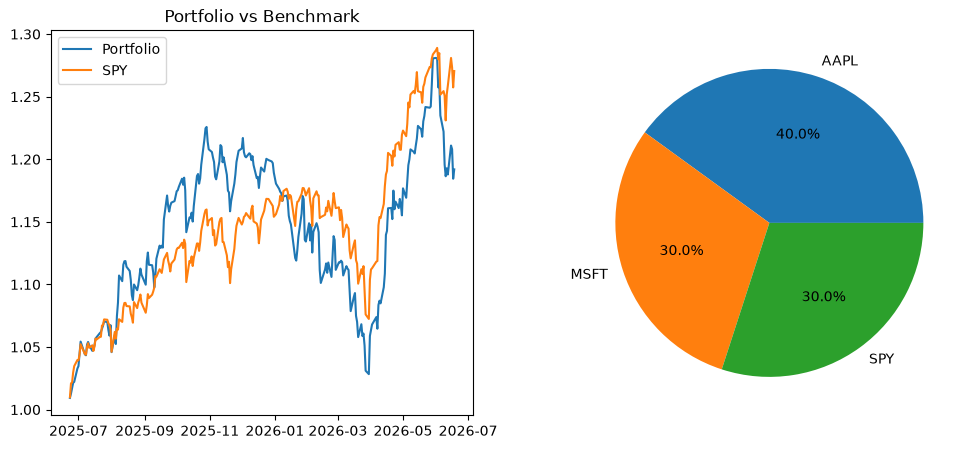
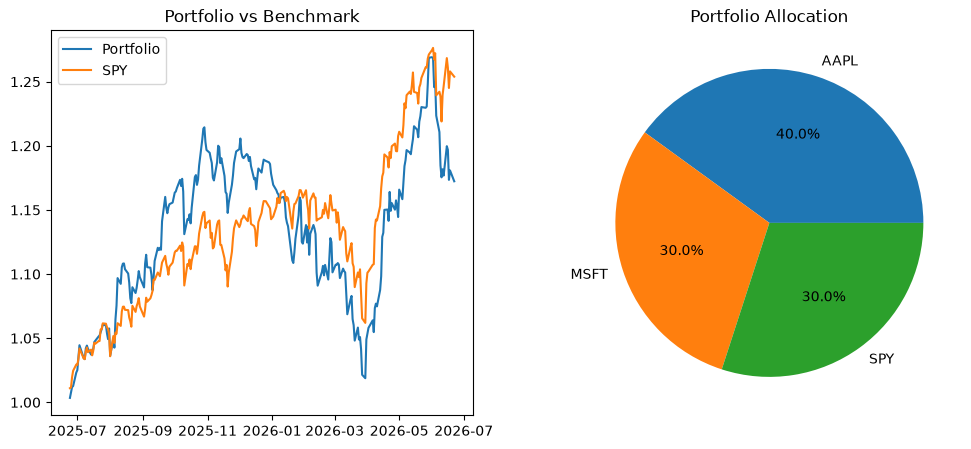
Add tracking error and information ratio metrics

diff --git a/src/main.py b/src/main.py
@@ -8,7 +8,11 @@ from metrics import (
     max_drawdown,
     volatility,
     cagr,
-    correlation_matrix
+    correlation_matrix,
+    beta,
+    alpha,
+    tracking_error,
+    information_ratio
 )
 
 from portfolio import (
@@ -16,19 +20,31 @@ from portfolio import (
     portfolio_growth
 )
 
+# -----------------------------------
+# Portfolio Setup
+# -----------------------------------
+
 tickers = ["AAPL", "MSFT", "SPY"]
 
 benchmark = "SPY"
 
 weights = [0.4, 0.3, 0.3]
 
+# -----------------------------------
+# Download Data
+# -----------------------------------
 
 prices = download_prices(tickers)
+
 benchmark_prices = download_prices(
     benchmark
 )
 
 benchmark_prices = benchmark_prices.squeeze()
+
+# -----------------------------------
+# Returns
+# -----------------------------------
 
 returns = daily_returns(prices)
 
@@ -41,9 +57,9 @@ portfolio_ret = portfolio_returns(
     weights
 )
 
-portfolio_sr = sharpe_ratio(
-    portfolio_ret
-)
+# -----------------------------------
+# Growth Curves
+# -----------------------------------
 
 growth = portfolio_growth(
     portfolio_ret
@@ -53,19 +69,25 @@ benchmark_growth = portfolio_growth(
     benchmark_returns
 )
 
-mdd = max_drawdown(
-    growth
-)
+# -----------------------------------
+# Core Metrics
+# -----------------------------------
 
+portfolio_sr = sharpe_ratio(
+    portfolio_ret
+)
 
 portfolio_vol = volatility(
     portfolio_ret
 )
 
-portfolio_cagr = cagr(
+mdd = max_drawdown(
     growth
 )
 
+portfolio_cagr = cagr(
+    growth
+)
 
 benchmark_cagr = cagr(
     benchmark_growth
@@ -75,8 +97,39 @@ corr = correlation_matrix(
     returns
 )
 
+# -----------------------------------
+# Benchmark Analytics
+# -----------------------------------
+
+portfolio_beta = beta(
+    portfolio_ret,
+    benchmark_returns
+)
+
+portfolio_alpha = alpha(
+    portfolio_cagr,
+    benchmark_cagr,
+    portfolio_beta
+)
+
+portfolio_tracking_error = tracking_error(
+    portfolio_ret,
+    benchmark_returns
+)
+
+portfolio_information_ratio = (
+    information_ratio(
+        portfolio_ret,
+        benchmark_returns
+    )
+)
+
+# -----------------------------------
+# Console Output
+# -----------------------------------
+
 print("Portfolio Sharpe Ratio:")
-print(portfolio_sr)
+print(f"{portfolio_sr:.2f}")
 
 print("\nAnnualized Volatility:")
 print(f"{portfolio_vol:.2%}")
@@ -87,20 +140,31 @@ print(f"{mdd:.2%}")
 print("\nPortfolio CAGR:")
 print(f"{portfolio_cagr:.2%}")
 
+print("\nBenchmark CAGR:")
+print(f"{benchmark_cagr:.2%}")
+
+print("\nPortfolio Beta:")
+print(f"{portfolio_beta:.2f}")
+
+print("\nPortfolio Alpha:")
+print(f"{portfolio_alpha:.2%}")
+
+print("\nTracking Error:")
+print(f"{portfolio_tracking_error:.2%}")
+
+print("\nInformation Ratio:")
+print(f"{portfolio_information_ratio:.2f}")
+
 print("\nCorrelation Matrix:")
 print(corr)
 
-print("\nBenchmark CAGR:")
-print(f"{benchmark_cagr:.2%}")
+# -----------------------------------
+# Correlation Heatmap
+# -----------------------------------
 
 plt.figure(figsize=(6, 5))
 
 plt.imshow(corr)
-
-plt.savefig(
-    "docs/images/correlation-heatmap.png",
-    bbox_inches="tight"
-)
 
 plt.colorbar()
 
@@ -116,7 +180,16 @@ plt.yticks(
 
 plt.title("Correlation Matrix")
 
+plt.savefig(
+    "docs/images/correlation-heatmap.png",
+    bbox_inches="tight"
+)
+
 plt.show()
+
+# -----------------------------------
+# Portfolio vs Benchmark
+# -----------------------------------
 
 plt.figure(figsize=(12, 5))
 
@@ -135,6 +208,7 @@ plt.plot(
 )
 
 plt.title("Portfolio vs Benchmark")
+
 plt.legend()
 
 plt.savefig(
@@ -142,19 +216,25 @@ plt.savefig(
     bbox_inches="tight"
 )
 
+# -----------------------------------
+# Asset Allocation Pie Chart
+# -----------------------------------
+
 plt.subplot(1, 2, 2)
+
 plt.pie(
     weights,
     labels=tickers,
     autopct="%1.1f%%"
 )
 
+plt.title("Portfolio Allocation")
+
 plt.savefig(
     "docs/images/allocation-chart.png",
     bbox_inches="tight"
 )
 
-plt.title("Portfolio Allocation")
-
 plt.tight_layout()
+
 plt.show()

diff --git a/tests/test_metrics.py b/tests/test_metrics.py
@@ -3,13 +3,16 @@ import pandas as pd
 
 from src.metrics import (
     daily_returns,
+    sharpe_ratio,
+    volatility,
+    max_drawdown,
+    cagr,
+    correlation_matrix,
     beta,
     alpha,
-    volatility,
-    cagr,
-    max_drawdown
+    tracking_error,
+    information_ratio
 )
-
 
 def test_daily_returns():
 
@@ -98,3 +101,74 @@ def test_max_drawdown():
     )
 
     assert result < 0
+
+    def test_tracking_error():
+
+        portfolio = pd.Series(
+        [0.02, 0.01, -0.01, 0.03]
+    )
+
+        benchmark = pd.Series(
+        [0.01, 0.01, -0.02, 0.02]
+    )
+
+        result = tracking_error(
+        portfolio,
+        benchmark
+    )
+
+        assert result > 0
+
+
+def test_information_ratio():
+
+    portfolio = pd.Series(
+        [0.02, 0.01, -0.01, 0.03]
+    )
+
+    benchmark = pd.Series(
+        [0.01, 0.01, -0.02, 0.02]
+    )
+
+    result = information_ratio(
+        portfolio,
+        benchmark
+    )
+
+    assert result > 0
+
+def test_correlation_matrix():
+
+    returns = pd.DataFrame(
+        {
+            "A": [0.01, 0.02, 0.03],
+            "B": [0.01, 0.02, 0.03]
+        }
+    )
+
+    corr = correlation_matrix(
+        returns
+    )
+
+    assert corr.loc["A", "B"] == 1.0
+
+
+
+def test_beta_positive():
+
+    portfolio = pd.Series(
+        [0.02, 0.01, -0.01, 0.03]
+    )
+
+    benchmark = pd.Series(
+        [0.01, 0.01, -0.02, 0.02]
+    )
+
+    result = beta(
+        portfolio,
+        benchmark
+    )
+
+    assert result > 0
+
+

diff --git a/src/metrics.py b/src/metrics.py
@@ -48,3 +48,35 @@ def alpha(
         - beta * benchmark_cagr
     )
 
+
+
+
+
+def tracking_error(
+    portfolio_returns,
+    benchmark_returns
+):
+    active_returns = (
+        portfolio_returns
+        - benchmark_returns
+    )
+
+    return (
+        active_returns.std()
+        * (252 ** 0.5)
+    )
+
+
+def information_ratio(
+    portfolio_returns,
+    benchmark_returns
+):
+    active_returns = (
+        portfolio_returns
+        - benchmark_returns
+    )
+
+    return (
+        active_returns.mean()
+        / active_returns.std()
+    ) * (252 ** 0.5)

diff --git a/tests/test_portfolio.py b/tests/test_portfolio.py
@@ -1,6 +1,10 @@
+import pytest
 import pandas as pd
 
-from src.portfolio import portfolio_returns
+from src.portfolio import (
+    portfolio_returns,
+    portfolio_growth
+)
 
 
 def test_portfolio_returns():
@@ -28,3 +32,19 @@ def test_portfolio_returns():
         expected,
         check_names=False
     )
+
+def test_portfolio_growth():
+
+    returns = pd.Series(
+        [0.10, 0.10]
+    )
+
+    growth = portfolio_growth(
+        returns
+    )
+
+    assert growth.iloc[-1] == pytest.approx(
+        1.21
+    )
+
+